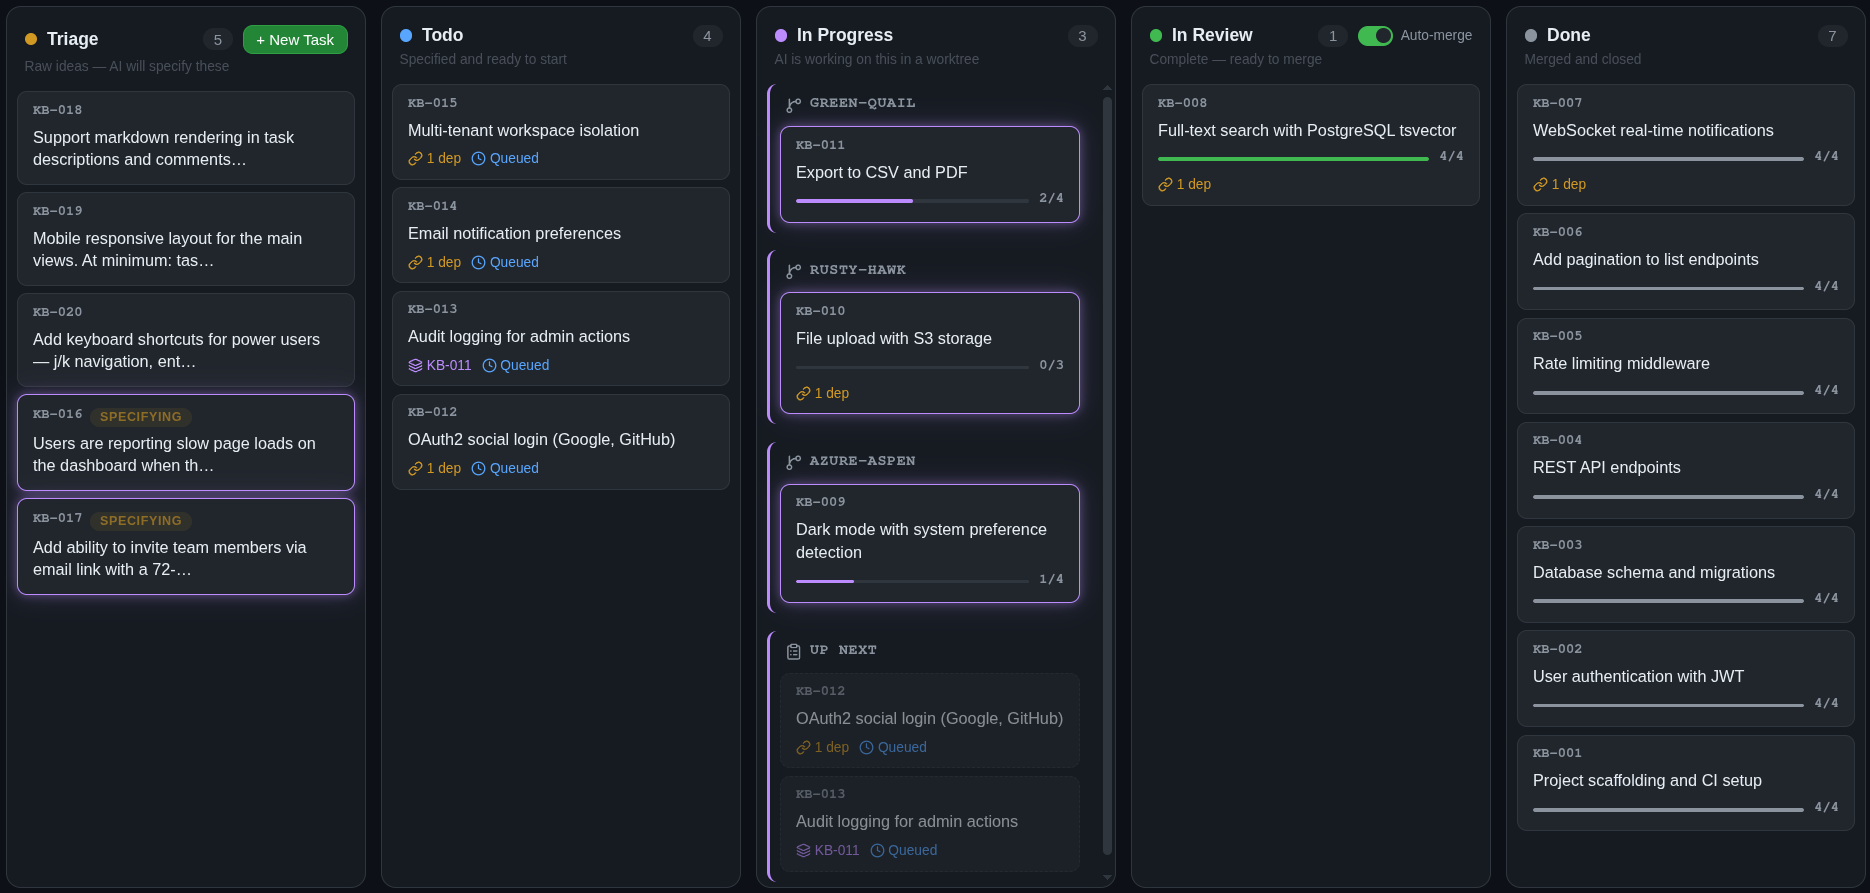
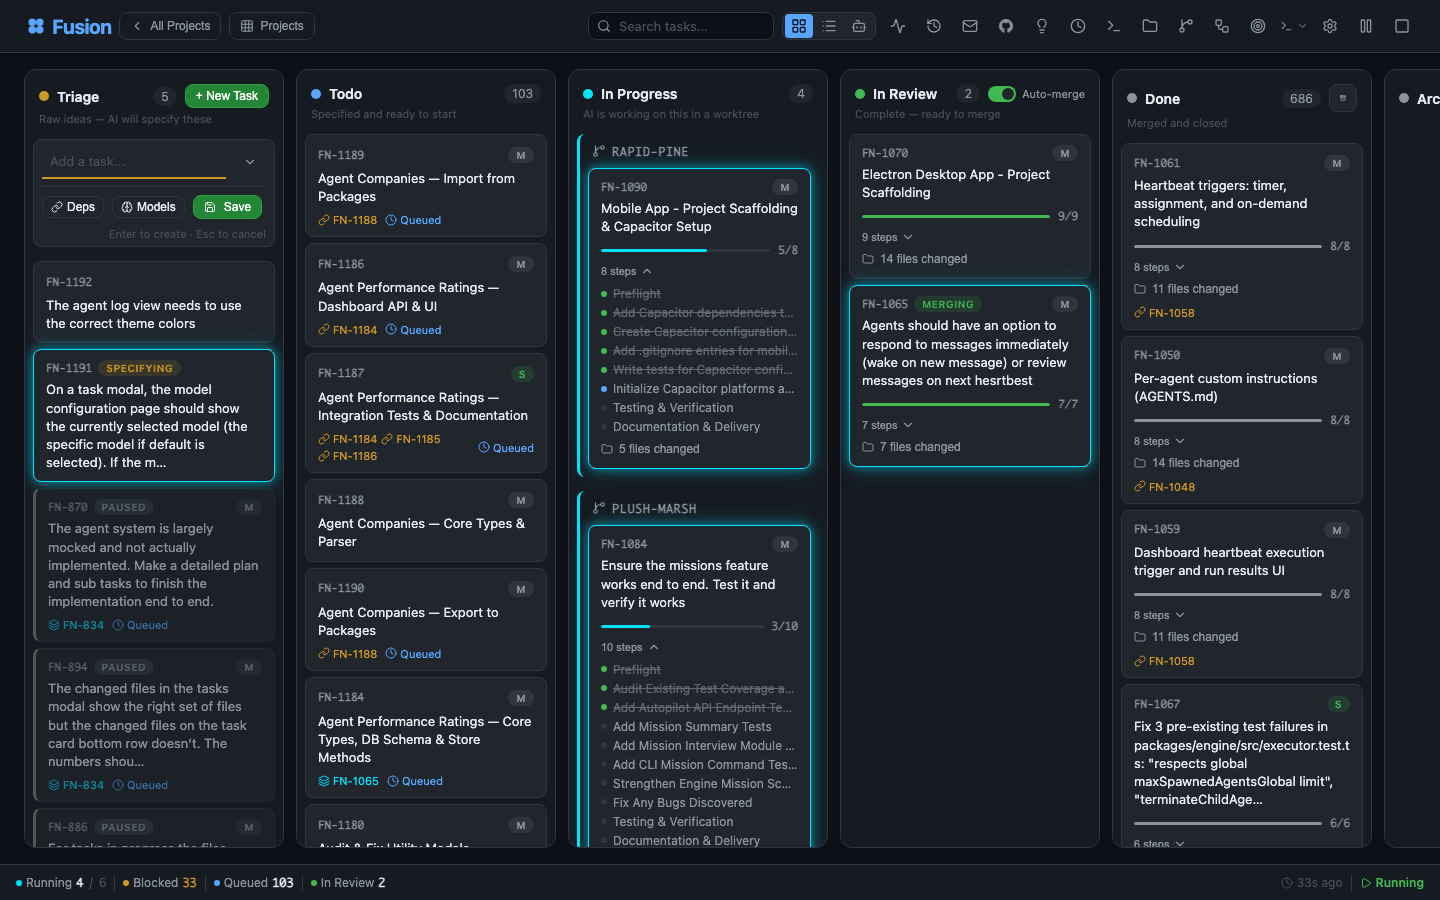
docs(FN-1083): refresh README and dashboard docs
- Expand README coverage for onboarding, planning multi-task flows, and dashboard capabilities
- Document updated execution/runtime features including per-step sessions, parallel steps, and mission autopilot
- Add and verify agent/message CLI command references plus spec editing/rebuild guidance
- Update demo dashboard screenshot to match current UI

diff --git a/README.md b/README.md
@@ -22,7 +22,7 @@ Like Trello, but your tasks get specified, executed, and delivered by AI — pow
 
 3. **Open** [http://localhost:4040](http://localhost:4040) — create tasks from the board or the CLI.
 
-**First-run setup:** On first launch, Fusion opens a guided onboarding modal that walks you through configuring provider credentials (OAuth login or API key entry) and selecting a default AI model. Completion is tracked via the `modelOnboardingComplete` global setting. You can re-trigger onboarding at any time by clearing this flag in Settings, or configure providers and models manually from the Settings modal.
+**First-run setup:** On first launch, Fusion opens the **Model Onboarding wizard**. It walks you through provider authentication (OAuth login or API key entry) and default model selection before automation starts. Completion is tracked via the global `modelOnboardingComplete` setting. You can re-trigger onboarding later by clearing this flag in Settings, or configure providers/models manually from the Settings modal.
 
 ### Prerequisites
 
@@ -88,7 +88,7 @@ fn task import owner/repo --labels bug --limit 10      # Import GitHub issues
 
 **Dashboard creation options:**
 - **Quick Entry** — Type a description, press Enter
-- **Plan** (💡) — AI interviews you to refine requirements before creating the task
+- **Plan** (💡) — AI interviews you to refine requirements before creating the task; summary view supports **Break into Tasks** for multi-task generation with dependencies
 - **Subtask** (🌳) — AI suggests 2–5 subtasks with drag-and-drop reordering and dependency linking
 - **Actions** (⋯) — Access advanced controls: dependencies, model overrides (executor/validator/planning), and manual save
 - **AI Title Summarization** — When `autoSummarizeTitles` is enabled, tasks without titles get concise AI-generated names (≤60 characters)
@@ -99,8 +99,12 @@ Each task is implemented by an AI agent with a full Plan → Review → Execute 
 
 1. **Automatic spec writing** — The triage agent generates a detailed `PROMPT.md` with steps, file scope, and acceptance criteria
 2. **Step-by-step execution** — For each step: plan, AI code review, implement, AI code review
-3. **Git worktree isolation** — Each task runs in its own worktree (`fusion/{task-id}` branch)
-4. **Workflow steps** — Configurable quality gates (pre-merge: blocks merge; post-merge: informational)
+3. **Session-per-step mode** — Enable `runStepsInNewSessions` to isolate each step in a fresh agent session with better retry behavior
+4. **Parallel step execution** — Configure `maxParallelSteps` (1–4) to run non-conflicting steps concurrently in isolated worktrees
+5. **Git worktree isolation** — Each task runs in its own worktree (`fusion/{task-id}` branch)
+6. **Workflow steps** — Configurable quality gates (pre-merge: blocks merge; post-merge: informational)
+
+Step status is tracked in real time in the dashboard so you can see pending/in-progress/done progress as the executor advances.
 
 ```bash
 fn task show FN-001                    # View task details, steps, log
@@ -114,13 +118,18 @@ Real-time kanban board at `localhost:4040`:
 
 - **Board view** — Drag-and-drop cards between columns, real-time search, column visibility toggle
 - **List view** — Group by column or size, inline title editing, duplicate tasks
+- **Agents view** — Agent list + detail panels with runtime config, heartbeat controls, metrics, and run history
+- **Mailbox** — Inter-agent/user messaging UI for inbox/outbox and direct coordination
 - **Interactive terminal** — Full PTY-based terminal with xterm.js, multiple tabs, mobile-aware with virtual keyboard handling that re-fits the terminal view above the on-screen keyboard on real devices (Chrome Android and iOS Safari)
 - **Git manager** — View commits/diffs, manage branches, worktree associations, push/pull, inline edit controls for remote name and URL
+- **Mission manager** — Hierarchical mission/milestone/slice/feature planning with progress tracking and autopilot controls
 - **Activity log** — Task lifecycle events, settings changes, filter by type, auto-refresh
 - **Files browser** — Browse project root or task worktrees, edit files with syntax highlighting
 - **Theme system** — Dark/Light/System modes, 17 color themes (Ocean, Forest, Nord, Dracula, and more)
 - **Usage dialog** — Real-time AI provider subscription usage with progress bars and reset timers
-- **Spec editor** — Edit `PROMPT.md` directly or request AI revision from the dashboard
+- **Spec editor** — Edit `PROMPT.md` directly, request AI revision, or rebuild/regenerate specs
+- **Planning Mode (multi-task)** — After AI planning, choose **Create Task** or **Break into Tasks** to generate dependency-linked subtasks
+- **Model onboarding wizard** — Guided provider/model setup from the dashboard, re-openable from Settings
 
 ### GitHub Integration
 
@@ -232,6 +241,21 @@ fn mission delete <id> [--force]            # Delete mission (cascades to childr
 fn mission activate-slice <slice-id>        # Manually activate a pending slice
 ```
 
+**Agent Management & Messaging:**
+```bash
+fn agent stop <id>                          # Stop a running agent
+fn agent start <id>                         # Start/resume a stopped agent
+fn agent import <file> [--dry-run] [--skip-existing]
+                                            # Import agents from a companies.sh manifest
+fn agent mailbox <id>                       # View one agent's mailbox
+
+fn message inbox                            # List inbox messages
+fn message outbox                           # List sent messages
+fn message send <agent-id> <msg>            # Send a message to an agent
+fn message read <id>                        # Read a specific message
+fn message delete <id>                      # Delete a message
+```
+
 **Git Commands:**
 ```bash
 fn git status                             # Show branch, commit, dirty state
@@ -266,6 +290,15 @@ Fusion supports two distinct kinds of discussion on a task:
 ### Refinement Tasks
 
 `fn task refine` creates a follow-up task in Triage that depends on the original. The title follows the format `Refinement: {source label}` for easy identification.
+
+### Spec Editing, Revision, and Rebuild
+
+From the dashboard task detail modal:
+- **Edit spec** — Update `PROMPT.md` directly
+- **AI revision** — Submit feedback and ask AI to revise the current specification
+- **Respecify/Rebuild** — Regenerate the specification and move the task back to triage for a fresh spec/review cycle
+
+Use rebuild when requirements changed significantly or the spec drifted from current project reality.
 
 ### Archive
 
@@ -323,6 +356,60 @@ Project settings override global settings. Configure in the dashboard under **Se
 
 The dashboard Agent Log subview shows which AI models were used for each task (Executor, Validator, Planning/Triage). When no model can be resolved, the header shows "Using default".
 
+## Agents Management
+
+Fusion includes a dedicated **Agents view** in the dashboard for operating autonomous workers:
+
+- Agent list with status and assignment
+- Detail panel with runtime configuration and custom instructions
+- Health/heartbeat status, recent activity, and run history
+- Metrics panels for throughput and reliability trends
+
+### Agent Presets and Prompt Templates
+
+Built-in prompt templates are available for common roles:
+
+- `default-executor`, `default-triage`, `default-reviewer`, `default-merger`
+- `senior-engineer`, `strict-reviewer`, `concise-triage`
+
+Assign templates per role with the `agentPrompts` project setting, and add custom templates for team-specific behavior. You can also set per-agent custom instructions in the dashboard.
+
+### Agent Controls (CLI)
+
+```bash
+fn agent stop <id>
+fn agent start <id>
+fn agent import <file> [--dry-run] [--skip-existing]
+fn agent mailbox <id>
+```
+
+### Per-Agent Heartbeat Configuration
+
+Each agent can override heartbeat behavior through `runtimeConfig`:
+- `enabled`
+- `heartbeatIntervalMs`
+- `heartbeatTimeoutMs`
+- `maxConcurrentRuns`
+
+Configure this in the agent detail panel (**Heartbeat Settings**). These values control timer triggers, unresponsive detection, and concurrent run limits per agent.
+
+## Inter-Agent Messaging
+
+Fusion provides built-in messaging for coordination between users and agents.
+
+- **Dashboard mailbox UI** — Inbox/outbox view and conversation management
+- **CLI messaging** — Send and manage direct messages from terminal workflows
+
+```bash
+fn message send <agent-id> <msg>
+fn message inbox
+fn message outbox
+fn message read <id>
+fn message delete <id>
+```
+
+Use messaging for handoffs ("review this next"), clarifications, and explicit coordination between specialized agents.
+
 ## Missions
 
 The Missions system provides a hierarchical planning structure for large-scale projects:
@@ -347,6 +434,24 @@ Mission ("Build Auth System")
 **Hierarchy:** Mission → Milestone → Slice → Feature → Task
 
 Status flows automatically: when features are linked to tasks and completed, slice status updates. When all slices in a milestone are complete, the milestone becomes complete. When all milestones are done, the mission is complete.
+
+### Mission Autopilot
+
+Enable **autopilot** to let Fusion progress a mission with less manual intervention.
+
+- `autoAdvance` — Existing behavior: activate the next pending slice when the current slice completes
+- `autopilotEnabled` — Enable active monitoring and progression orchestration for a mission
+
+When autopilot is enabled, the runtime tracks task completions and advances mission state through:
+
+`inactive → watching → activating → completing`
+
+Autopilot API endpoints:
+
+- `GET /api/missions/:missionId/autopilot`
+- `PATCH /api/missions/:missionId/autopilot` (`{ enabled: boolean }`)
+- `POST /api/missions/:missionId/autopilot/start`
+- `POST /api/missions/:missionId/autopilot/stop`
 
 ## Workflow Steps
 
@@ -522,14 +627,18 @@ Project settings override global settings. Configure in the dashboard under **Se
 | `ntfyEnabled` | Global | false | Enable push notifications |
 | `ntfyTopic` | Global | - | ntfy.sh topic for notifications |
 | `ntfyDashboardHost` | Global | - | Dashboard URL for notification deep links |
+| `modelOnboardingComplete` | Global | false | Tracks completion of first-run model onboarding wizard |
 | `maxConcurrent` | Project | 2 | Concurrent task execution limit |
 | `autoMerge` | Project | true | Auto-merge completed tasks |
 | `smartConflictResolution` | Project | true | Auto-resolve lock/generated files |
 | `requirePlanApproval` | Project | false | Manual approval for AI specs |
 | `taskStuckTimeoutMs` | Project | - | Stuck task detection timeout (ms) |
+| `runStepsInNewSessions` | Project | false | Run each task step in its own agent session |
+| `maxParallelSteps` | Project | 2 | Max concurrent steps when per-step sessions are enabled |
 | `worktreeNaming` | Project | random | Worktree naming: random/task-id/task-title |
 | `recycleWorktrees` | Project | false | Pool and reuse worktrees for efficiency |
 | `groupOverlappingFiles` | Project | false | Serialize tasks with shared file scopes |
+| `agentPrompts` | Project | - | Role-based prompt templates and assignments |
 | `autoSummarizeTitles` | Project | false | Auto-generate titles for untitled tasks |
 | `autoBackupEnabled` | Project | false | Enable automatic database backups |
 | `autoBackupSchedule` | Project | `0 2 * * *` | Cron expression for backup schedule |